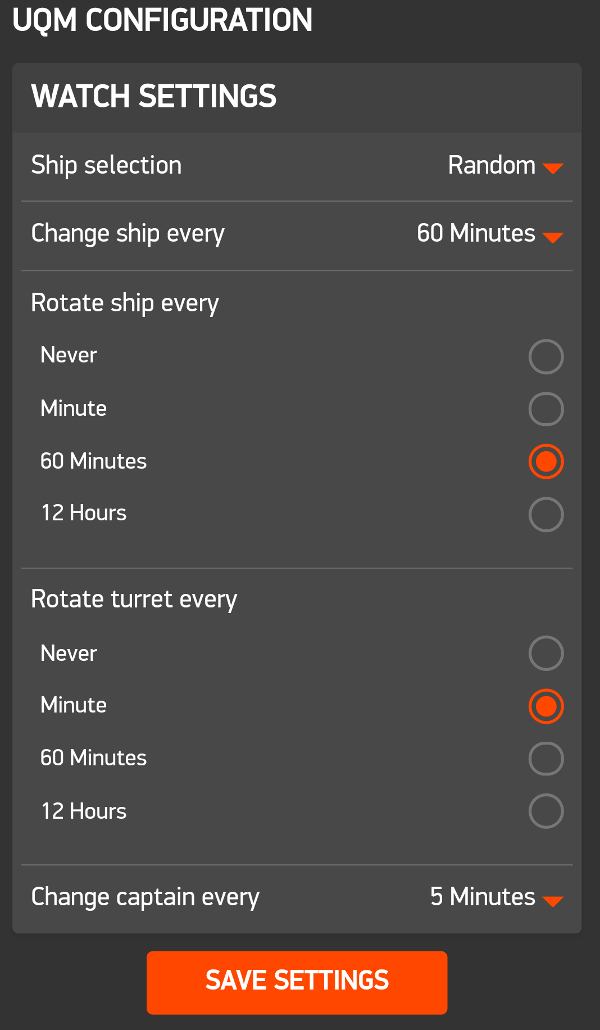
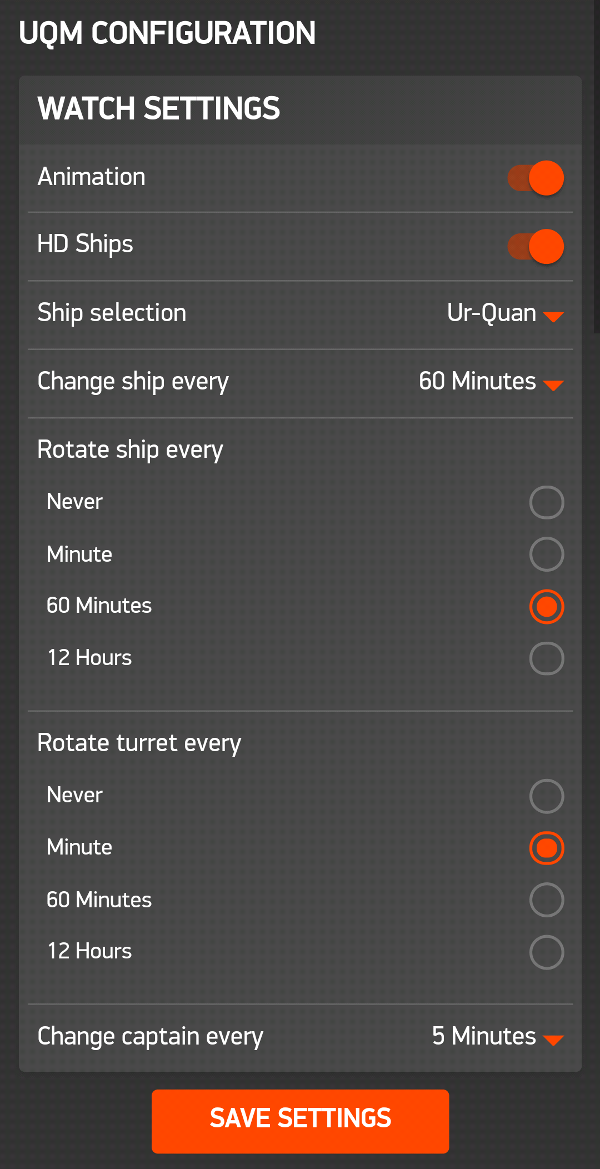
Update Readme

diff --git a/README.md b/README.md
@@ -5,13 +5,15 @@ Based off [Ur-Quan Masters](http://sc2.sourceforge.net/downloads.php)
 
 For B&W it may look better if you set rotation to 0
 
-![](screenshots/uqm-chmmr.png?raw=true)
+![](screenshots/chmmr.gif?raw=true)
 ![](screenshots/uqm-eluder.png?raw=true)
 ![](screenshots/uqm-human.png?raw=true)
 ![](screenshots/uqm-pkunk.png?raw=true)
 ![](screenshots/uqm-slylandro.png?raw=true)
 ![](screenshots/uqm-syreen.png?raw=true)
 ![](screenshots/uqm-urquan.png?raw=true)
+![](screenshots/orz-hd.gif?raw=true)
+![](screenshots/orz.gif?raw=true)
 
 ![](screenshots/bw-ilwrath.png?raw=true)
 ![](screenshots/bw-pkunk.png?raw=true)
